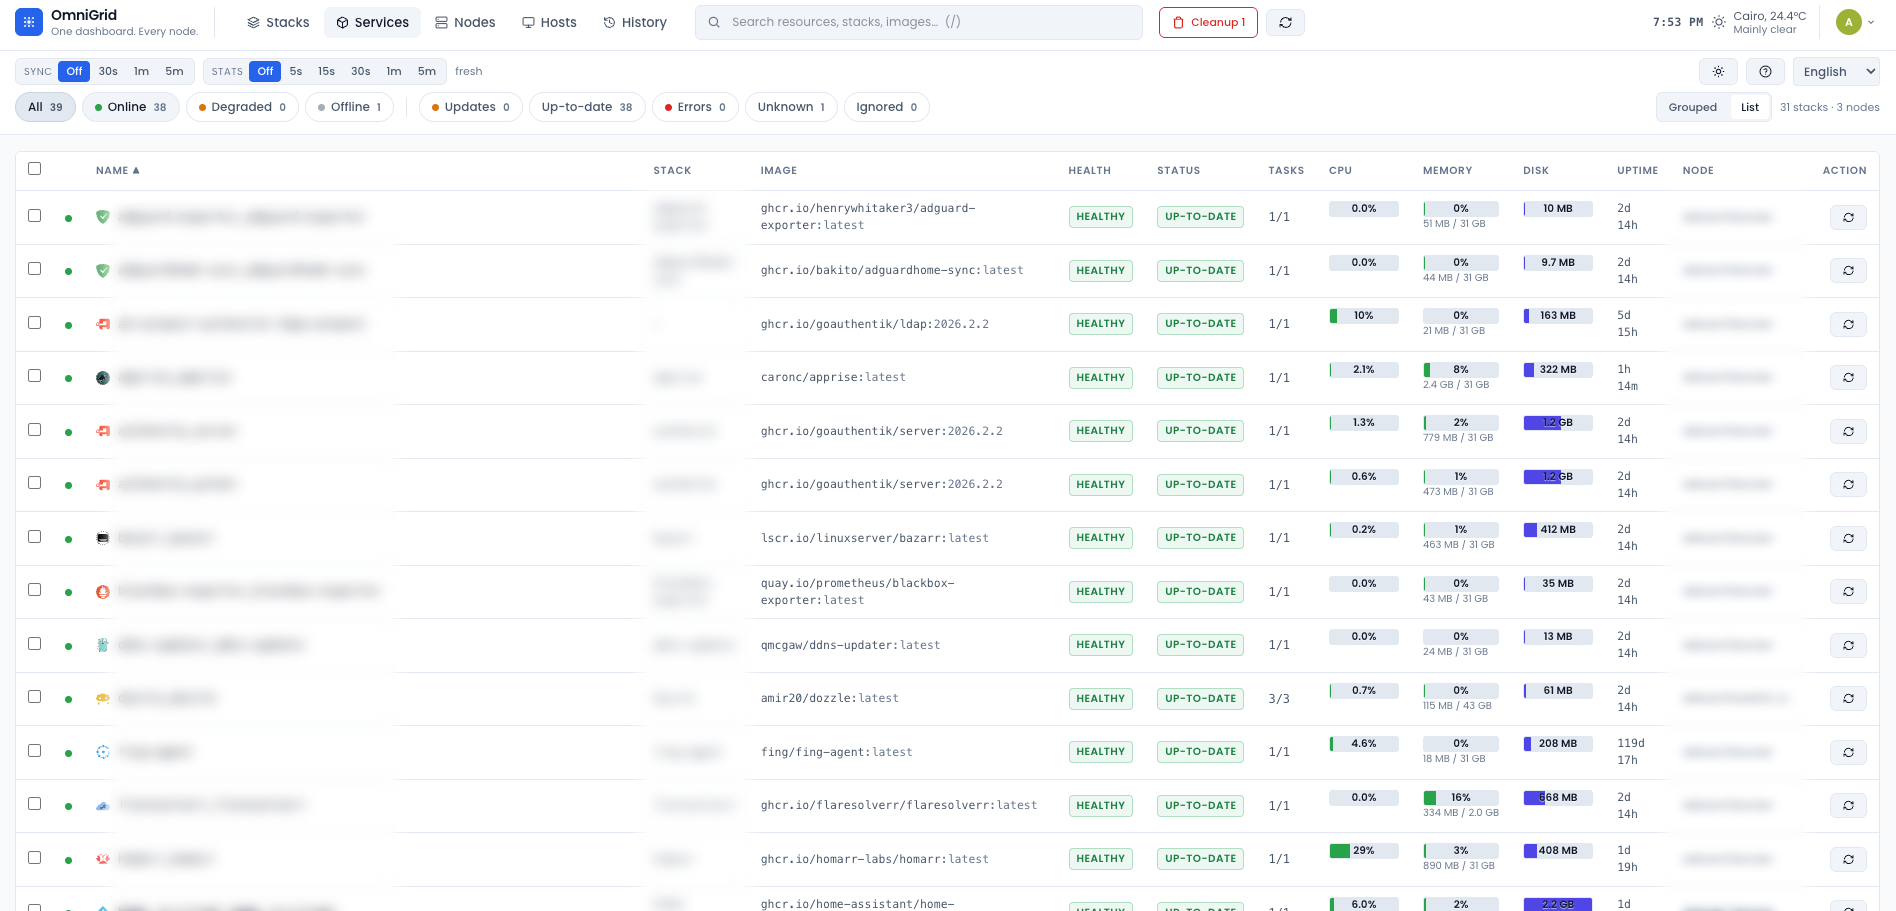
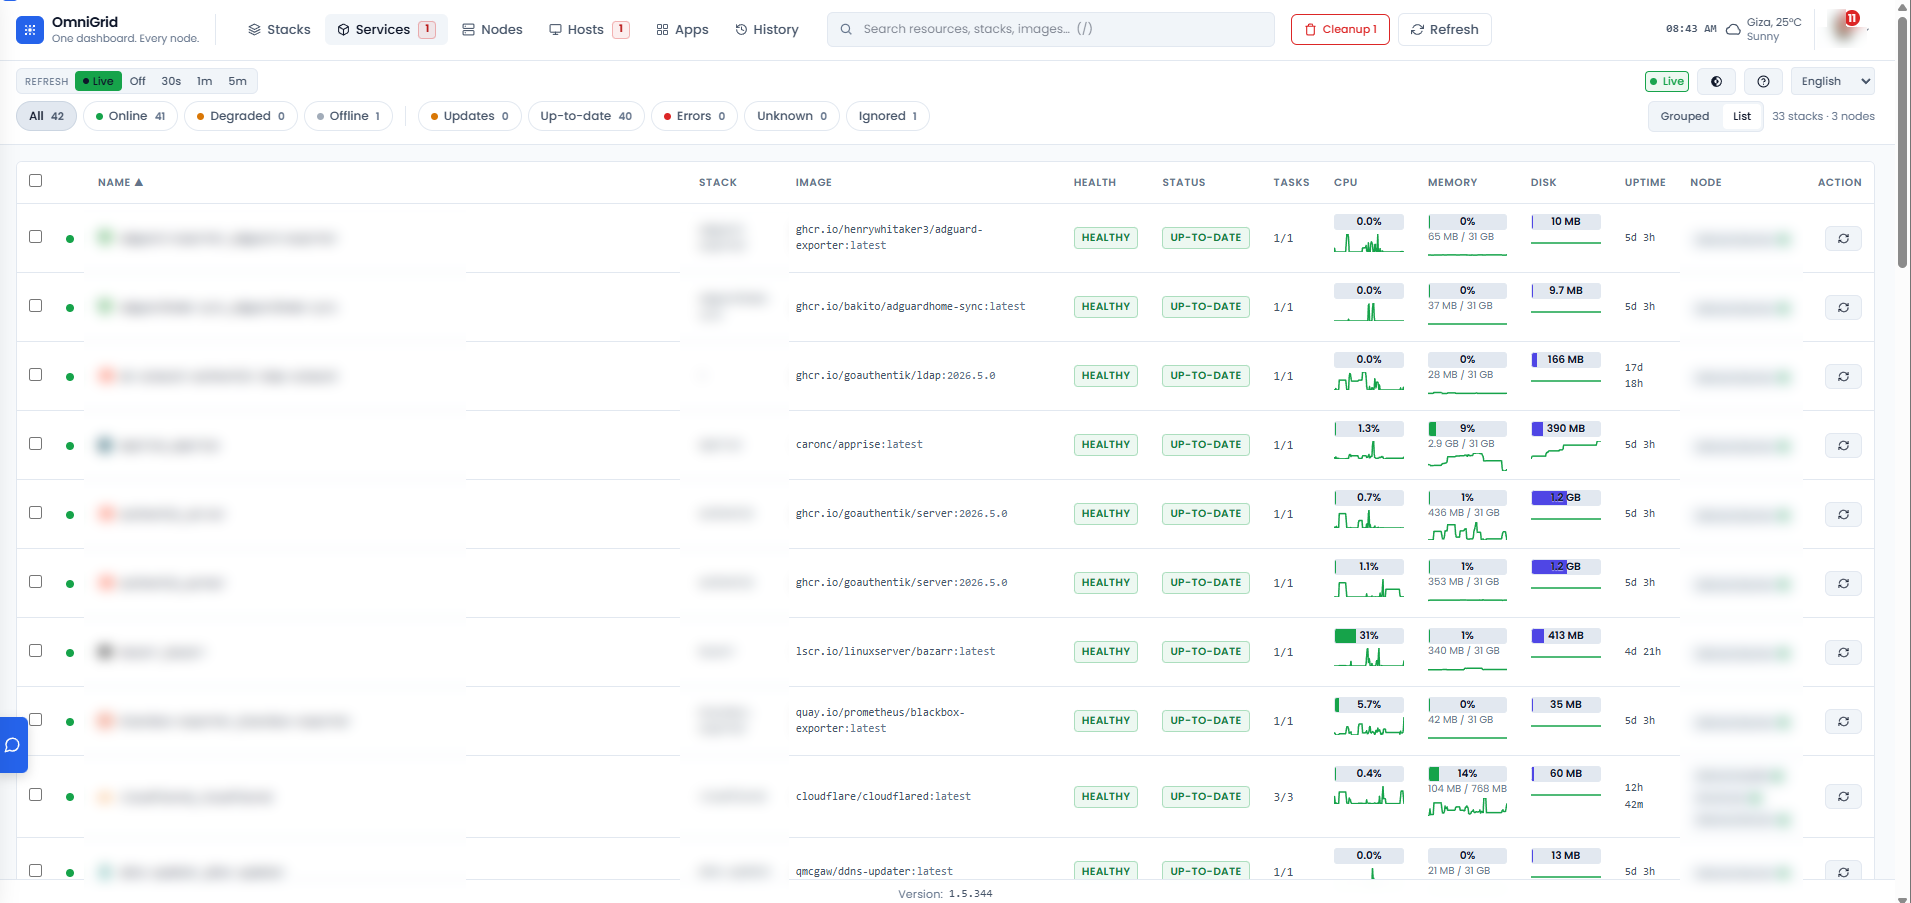
Release 1.6.0

diff --git a/README.md b/README.md
@@ -22,7 +22,7 @@ Built as a friendlier replacement for Diun Dash plus the tab-jumping between Por
      for the full set. The hero shot is the Nodes view (Stacks grouped
      by host node + live HOST CPU/MEM/DISK bars). The bare <img>
      renders without HTML5-deprecated `align` centering. -->
-<img src="docs/screenshots/nodes-view.png" alt="OmniGrid Nodes view — stacks grouped by host with live CPU / Memory / Disk bars" width="960" />
+<img src="docs/screenshots/nodes-view-light.png" alt="OmniGrid Nodes view — stacks grouped by host with live CPU / Memory / Disk bars" width="960" />
 
 ## Features
 
@@ -56,8 +56,8 @@ Built as a friendlier replacement for Diun Dash plus the tab-jumping between Por
 
 ### Apps & integrations
 
-- **Apps view + service catalog** — admin-pinned services on each curated host, paired with a built-in catalog of ~80 templates (AdGuard Home, Plex, Sonarr, Authentik, …). A discovery wizard matches a host's open-port set against catalog templates and proposes pins; per-instance Probe-now, Logs (Portainer-routed for containerised apps), and Restart / Update (when linked to a Portainer container or stack). Aggregate `/api/apps` + flat `/api/apps/instances` + portable catalog JSON export / import.
-- **Per-app integrations + skills** — apps with a dedicated module light up an expanded card (live data) plus a set of **skills** exposed three ways at once: an app-drawer button, an AI palette/sidebar action, and a Telegram action the model can invoke from natural language. Apps with modules today: **Plex** (library + now-playing + recently-added + search + scan, with a seamless "Sign in to Plex" OAuth PIN flow — `POST /api/apps/plex/auth/start` + `GET /api/apps/plex/auth/poll`), **Radarr / Sonarr / Lidarr / Readarr / Bazarr / Prowlarr / Seerr** (the *arr + request stack), **Kavita**, **AdGuard Home** + **Pi-hole** (fleet apps — one aggregated card + fleet-wide enable / disable-for-N / refresh across every instance), **AdGuard Home Sync**, **ddns-updater**, **APC** (UPS via SNMP), and **Speedtest Tracker**. Notable rosters: Prowlarr (status / indexers / app-sync / search / find-available / add-indexer / add-indexers-in-bulk / fix-flaresolverr-tags), Seerr (status / list-requests /
+- **Apps view + service catalog** — admin-pinned services on each curated host, paired with a built-in catalog of 70+ templates (AdGuard Home, Plex, Sonarr, Authentik, …). A discovery wizard matches a host's open-port set against catalog templates and proposes pins; per-instance Probe-now, Logs (Portainer-routed for containerised apps), and Restart / Update (when linked to a Portainer container or stack). Aggregate `/api/apps` + flat `/api/apps/instances` + portable catalog JSON export / import.
+- **Per-app integrations + skills** — apps with a dedicated module light up an expanded card (live data) plus a set of **skills** exposed three ways at once: an app-drawer button, an AI palette/sidebar action, and a Telegram action the model can invoke from natural language. Apps with modules today (23, canonical list is `logic/apps/registry.py`): **Plex / Jellyfin / Emby** (media servers — now-playing + recently-added + search + scan; Plex adds a seamless "Sign in to Plex" OAuth PIN flow via `POST /api/apps/plex/auth/start` + `GET /api/apps/plex/auth/poll`), **Tautulli** (Plex activity / history), **Radarr / Sonarr / Lidarr / Readarr / Bazarr / Prowlarr / Seerr** (the *arr + request stack), **qBittorrent**, **Tdarr** (transcode automation), **Tracearr** (stream-sharing detection), **Kavita** (comics / e-books), **Forgejo** (self-hosted Git), **AdGuard Home** + **Pi-hole** (fleet apps — one aggregated card + fleet-wide enable / disable-for-N / refresh across every instance), **AdGuard Home Sync**, **ddns-updater**, **Apprise** (the notification gateway OmniGrid itself uses), **APC** (UPS via SNMP), and **Speedtest Tracker**. Notable rosters: Prowlarr (status / indexers / app-sync / search / find-available / add-indexer / add-indexers-in-bulk / fix-flaresolverr-tags), Seerr (status / list-requests /
   request-movie / suggest-movie / set-filter / show-filters), Kavita (status / libraries / search / scan). Per-instance credentials follow the keep-current-if-blank contract; destructive skills gate on confirm (and on `telegram_allow_destructive` over Telegram). Each skill is delivered via `POST /api/services/{host}/{idx}/skill/{id}`; per-app card data via `GET /api/services/{host}/{idx}/app-data`; credential tests via `POST /api/services/{host}/{idx}/test-credential`.
 - **Custom dashboards (named, shareable "views")** — a Homarr-style board where you drag app cards / widgets / bookmarks into your own collapsible sections, with multiple named dashboards you can switch between. Each dashboard has a **visibility** (private / public) and, when public, an **edit permission** (read-only or editable-by-anyone-except-read-only-users); only the owner can delete it or change its sharing. Dashboards live server-side (`app_views` table) behind any-signed-in-user routes — `GET/POST /api/apps/views` + `PUT/DELETE /api/apps/views/{id}`.
 
@@ -153,7 +153,7 @@ docker pull ghcr.io/maraouf/omnigrid:1.4             # newest patch on the 1.4 l
 docker pull ghcr.io/maraouf/omnigrid:1.4.0           # exact, immutable
 ```
 
-Tag layout: `latest` floats to the newest minor we've shipped; `<MAJOR>.<MINOR>` floats to the newest minor on that major line; `<MAJOR>.<MINOR>.0` is the immutable cut-day MINOR tag (use this for rollbacks). Only `v<MAJOR>.<MINOR>.0` cut-day tags are published — daily auto-PATCH builds (`.1`, `.2`, …) stay in the maintainer-private registry and on the Swarm manager itself; cutting a MINOR is what publishes a new public tag.
+Tag layout: `latest` floats to the newest minor we've shipped; `<MAJOR>.<MINOR>` floats to the newest patch on that minor line (currently always equal to `<MAJOR>.<MINOR>.0`, since only cut-day MINOR builds are published); `<MAJOR>.<MINOR>.0` is the immutable cut-day MINOR tag (use this for rollbacks). Only `v<MAJOR>.<MINOR>.0` cut-day tags are published — daily auto-PATCH builds (`.1`, `.2`, …) stay in the maintainer-private registry and on the Swarm manager itself; cutting a MINOR is what publishes a new public tag.
 
 For a Swarm `docker-compose.yml`, set `OMNIGRID_IMAGE=ghcr.io/maraouf/omnigrid:latest` (or pin a specific tag) before `docker stack deploy` and the compose substitution picks it up. See the [GHCR section in the deploy runbook](docs/guidelines/deploy.md#pre-built-images-on-ghcr) for `--with-registry-auth` details and the publish-trigger contract.
 
@@ -351,7 +351,8 @@ GET / POST / PATCH / DELETE  /api/schedules[/{id}]
 POST                          /api/schedules/{id}/run     fire immediately → {op_id}
 GET                           /api/schedules/queue?limit=50
 GET / POST / DELETE          /api/backups[/{name}]   create / list / remove
-POST                          /api/backups/{name}/restore
+POST                          /api/backups/{name}/restore   restore from an on-disk snapshot
+POST                          /api/backups/restore    upload a snapshot zip and restore from it (multipart, 200 MB cap)
 GET                          /api/hosts/{id}/ssh/status
 POST                          /api/hosts/{id}/ssh/test
 POST                          /api/hosts/{id}/ssh/run    body: {command, dry_run}
@@ -579,7 +580,8 @@ The full gallery lives under `docs/screenshots/` — a quick tour:
 | ![Stacks](docs/screenshots/stacks-view-light.png)             | **Stacks view** — grouped table, expand-per-stack, the default landing surface.                 |
 | ![Services](docs/screenshots/services-view-light.png)         | **Services view** — flat sortable list of every Swarm service.                                  |
 | ![Service detail](docs/screenshots/service-detail-drawer.png) | **Service detail drawer** — image / digest / actions (Restart / Recreate / Ignore).             |
-| ![Nodes](docs/screenshots/nodes-view.png)                     | **Nodes view** — stacks grouped by Swarm node with live HOST CPU / MEM / DISK / UPTIME bars.    |
+| ![Nodes](docs/screenshots/nodes-view-light.png)                     | **Nodes view** — stacks grouped by Swarm node with live HOST CPU / MEM / DISK / UPTIME bars.    |
+| ![Apps](docs/screenshots/apps-view-light.png)                 | **Apps view** — admin-pinned services per host with the catalog, per-instance probes + expanded cards. |
 | ![History](docs/screenshots/history-audit-log.png)            | **History (audit log)** — every operation persisted with filterable when / op / target columns. |
 
 ### Hosts

diff --git a/docs/guidelines/api.md b/docs/guidelines/api.md
@@ -466,6 +466,15 @@ curl -sS -H "Authorization: Bearer $TOKEN" \
 curl -sS -H "Authorization: Bearer $TOKEN" \
   https://omnigrid.example.com/api/backups/2026-04-26-19-00.zip \
   -o snapshot.zip
+
+# Restore from an existing on-disk snapshot
+curl -sS -H "Authorization: Bearer $TOKEN" -X POST \
+  https://omnigrid.example.com/api/backups/2026-04-26-19-00.zip/restore | jq
+
+# Upload an off-host snapshot zip and restore from it (multipart; 200 MB cap)
+curl -sS -H "Authorization: Bearer $TOKEN" -X POST \
+  -F "file=@snapshot.zip" \
+  https://omnigrid.example.com/api/backups/restore | jq
 ```
 
 ### SSH command runner (admin-only, audited)
@@ -898,7 +907,7 @@ Current per-app roster (23 modules; the canonical list is
 | Tracearr                       | `tracearr`                                    | public-API bearer token       | status / streams / servers / violations / terminate                                                |
 | Kavita                         | `kavita`                                       | JWT (exchanged from api_key)  | status / libraries / search / scan                                                                 |
 | Forgejo                        | `forgejo`                                       | api_key (Forgejo token)       | status / repos / PRs / issues / search / starred / mark-read                                       |
-| Tdarr                          | `tdarr`                                        | api_key                       | status / bloated / requeue-bloated / requeue-failed                                                |
+| Tdarr                          | `tdarr`                                        | none (optional `x-api-key`)   | status / bloated / requeue-bloated / requeue-failed                                                |
 | AdGuard Home                   | `adguard-home` / `adguardhome` / `adguard`    | HTTP Basic                    | fleet: status / enable / disable (+ timed) / refresh / re-enable                                   |
 | Pi-hole                        | `pihole` / `pi-hole` / `pihole-v6`            | password-only (SID auth)      | fleet: status / enable / disable (+ timed) / refresh / re-enable                                   |
 | AdGuard Home Sync              | `adguardhome-sync` (+ aliases)                | HTTP Basic (optional)         | status / sync-now / logs / clear-logs                                                              |

diff --git a/CHANGELOG.md b/CHANGELOG.md
@@ -32,10 +32,11 @@ Sixth MINOR cut on top of `1.5.0` — rolls up **326 closed issues** under the 1
 
 ### Highlights
 
-- Major app-integration expansion — new per-app integrations wired end-to-end for Plex, Jellyfin, Emby, Tautulli, Tdarr, Tracearr, Kavita, Seerr (Overseerr / Jellyseerr), AdGuard Home Sync, ddns-updater, Apprise and Forgejo, each following the per-app encapsulation pattern with editor + extras partials, catalog templates, icons and AI skills.
+- Major app-integration expansion — new per-app integrations wired end-to-end for Plex, Jellyfin, Emby, Tautulli, Tdarr, Tracearr, Kavita, Seerr (Overseerr / Jellyseerr), AdGuard Home Sync, ddns-updater, Apprise and Forgejo, each following the per-app encapsulation pattern with editor + extras partials, catalog templates, icons and AI skills — bringing the per-app integration roster to 23 modules.
 - *arr stack & transcoding — Sonarr / Radarr / Lidarr / Readarr / Prowlarr / Bazarr / qBittorrent extras, Prowlarr add-indexer from AI / Telegram, and a full Tdarr workflow (check-bloated, requeue-bloated, requeue-failed) with background scans, auto-poll, measured ETAs and rich per-file result UIs.
 - Apps page & custom dashboard — "By app" cards redesigned (logo left, content right), multiple named custom-dashboard views with per-view private/public visibility + edit permissions, per-app data-cache TTL configurable in the app, and per-app action (skill) buttons gated on the per-instance "show extras" toggle.
-- Telegram bot — expanded command help + arg-skill command handling, AI free-text grounded in real fleet state, per-pending-skill polling so long background jobs (e.g. Tdarr requeue) report completion automatically, and destructive-action confirm gating that honours each surface's policy.
+- Credential-safe media art — a new per-app authenticated image proxy (`/api/services/{host}/{idx}/image-proxy`) fetches posters and avatars through each app's own credential so it never reaches the browser DOM, with an SSRF guard and a 10 MB / 1-day cache (Plex / Tautulli / Bazarr / Seerr / Forgejo art).
+- Telegram bot — a new `/skills` roster plus dynamic per-app `/<skill_id>` commands (e.g. `/run_speedtest`, `/adguard_status`), expanded command help + arg-skill handling, AI free-text grounded in real fleet state, per-pending-skill polling so long background jobs (e.g. Tdarr requeue) report completion automatically, and destructive-action confirm gating that honours each surface's policy.
 - Stats dashboard — slow-query investigation plus event-loop-blocking fixes, chart memoization, Samples KPIs + i18n, and a performance pass that chunked / offloaded the retention prunes.
 - Prayer Times & Weather — prayer reminders (a notification N minutes before each prayer, per-user opt-in with per-user medium selection across in-app / Telegram / Apprise), Prayer-Times admin fixes, and weather-sampler additions.
 - AI assistant — answers per-host telemetry questions directly and auto-resolves a single matching host; host-status accuracy fix so it no longer mislabels reachable "problem" hosts as Down.
@@ -43,7 +44,7 @@ Sixth MINOR cut on top of `1.5.0` — rolls up **326 closed issues** under the 1
 - Stability & performance — the tracemalloc default-ON crash-loop root-caused and fixed; SPA perf work (xterm.js lazy-load, `x-show` → `x-if` unmounting of costly subtrees, sprite-preload + requestAnimationFrame violation cleanups); per-app first-load paint fixes.
 - Hosts & discovery — port-scan default coverage extended to common TCP + UDP service ports, an Asset-Inventory collapsible JSON-tree viewer, Discovery-wizard improvements, scan-only port surfacing, and Apps-instance grouping (by host / service / none).
 - Security — CodeQL SSRF + path-injection findings resolved, plus UTF-8 encoding hardening on file reads.
-- Provider chips, icons & status pills + cross-app polish — unified Test-connection component, reload-button consistency, app-extras presentation unified across all apps, and a top-bar recent-tabs privacy fix (a user only ever sees their own tabs).
+- Provider chips, icons & status pills + cross-app polish — unified Test-connection component, reload-button consistency, app-extras presentation unified across all apps, Public-IP widget country-flag display (new `flag-icons` dep), and a top-bar recent-tabs privacy fix (a user only ever sees their own tabs).
 
 ### Telegram bot
 

diff --git a/docs/guidelines/telegram.md b/docs/guidelines/telegram.md
@@ -340,8 +340,11 @@ or send call without restart.
 
 | Tunable                                     | Default | Range  | Where                    |
 | ------------------------------------------- | ------- | ------ | ------------------------ |
-| `tuning_telegram_long_poll_timeout_seconds` | 25      | 1..50  | Notifications → Telegram |
-| `tuning_telegram_http_timeout_seconds`      | 35      | 5..120 | Notifications → Telegram |
+| `tuning_telegram_long_poll_timeout_seconds`   | 25      | 1..50   | Notifications → Telegram |
+| `tuning_telegram_http_timeout_seconds`        | 35      | 5..120  | Notifications → Telegram |
+| `tuning_telegram_destructive_cooldown_seconds`| 30      | 1..600  | Notifications → Telegram — cool-down between typed-confirm destructive-command prompts per chat. |
+| `tuning_telegram_ai_calls_per_minute`         | 6       | 1..120  | Notifications → Telegram — per-chat rate cap on free-text AI replies. |
+| `tuning_telegram_bulk_update_concurrency`     | 4       | 1..16   | Notifications → Telegram — fan-out concurrency for `/update all`. |
 
 Plain settings (managed via the Telegram tab UI):
 

diff --git a/docs/releases/_v160_release_notes.md b/docs/releases/_v160_release_notes.md
@@ -4,10 +4,11 @@ Sixth MINOR cut on top of `1.5.0` — rolls up **326 closed issues** under the 1
 
 ### Highlights
 
-- Major app-integration expansion — new per-app integrations wired end-to-end for Plex, Jellyfin, Emby, Tautulli, Tdarr, Tracearr, Kavita, Seerr (Overseerr / Jellyseerr), AdGuard Home Sync, ddns-updater, Apprise and Forgejo, each following the per-app encapsulation pattern with editor + extras partials, catalog templates, icons and AI skills.
+- Major app-integration expansion — new per-app integrations wired end-to-end for Plex, Jellyfin, Emby, Tautulli, Tdarr, Tracearr, Kavita, Seerr (Overseerr / Jellyseerr), AdGuard Home Sync, ddns-updater, Apprise and Forgejo, each following the per-app encapsulation pattern with editor + extras partials, catalog templates, icons and AI skills — bringing the per-app integration roster to 23 modules.
 - *arr stack & transcoding — Sonarr / Radarr / Lidarr / Readarr / Prowlarr / Bazarr / qBittorrent extras, Prowlarr add-indexer from AI / Telegram, and a full Tdarr workflow (check-bloated, requeue-bloated, requeue-failed) with background scans, auto-poll, measured ETAs and rich per-file result UIs.
 - Apps page & custom dashboard — "By app" cards redesigned (logo left, content right), multiple named custom-dashboard views with per-view private/public visibility + edit permissions, per-app data-cache TTL configurable in the app, and per-app action (skill) buttons gated on the per-instance "show extras" toggle.
-- Telegram bot — expanded command help + arg-skill command handling, AI free-text grounded in real fleet state, per-pending-skill polling so long background jobs (e.g. Tdarr requeue) report completion automatically, and destructive-action confirm gating that honours each surface's policy.
+- Credential-safe media art — a new per-app authenticated image proxy (`/api/services/{host}/{idx}/image-proxy`) fetches posters and avatars through each app's own credential so it never reaches the browser DOM, with an SSRF guard and a 10 MB / 1-day cache (Plex / Tautulli / Bazarr / Seerr / Forgejo art).
+- Telegram bot — a new `/skills` roster plus dynamic per-app `/<skill_id>` commands (e.g. `/run_speedtest`, `/adguard_status`), expanded command help + arg-skill handling, AI free-text grounded in real fleet state, per-pending-skill polling so long background jobs (e.g. Tdarr requeue) report completion automatically, and destructive-action confirm gating that honours each surface's policy.
 - Stats dashboard — slow-query investigation plus event-loop-blocking fixes, chart memoization, Samples KPIs + i18n, and a performance pass that chunked / offloaded the retention prunes.
 - Prayer Times & Weather — prayer reminders (a notification N minutes before each prayer, per-user opt-in with per-user medium selection across in-app / Telegram / Apprise), Prayer-Times admin fixes, and weather-sampler additions.
 - AI assistant — answers per-host telemetry questions directly and auto-resolves a single matching host; host-status accuracy fix so it no longer mislabels reachable "problem" hosts as Down.
@@ -15,7 +16,7 @@ Sixth MINOR cut on top of `1.5.0` — rolls up **326 closed issues** under the 1
 - Stability & performance — the tracemalloc default-ON crash-loop root-caused and fixed; SPA perf work (xterm.js lazy-load, `x-show` → `x-if` unmounting of costly subtrees, sprite-preload + requestAnimationFrame violation cleanups); per-app first-load paint fixes.
 - Hosts & discovery — port-scan default coverage extended to common TCP + UDP service ports, an Asset-Inventory collapsible JSON-tree viewer, Discovery-wizard improvements, scan-only port surfacing, and Apps-instance grouping (by host / service / none).
 - Security — CodeQL SSRF + path-injection findings resolved, plus UTF-8 encoding hardening on file reads.
-- Provider chips, icons & status pills + cross-app polish — unified Test-connection component, reload-button consistency, app-extras presentation unified across all apps, and a top-bar recent-tabs privacy fix (a user only ever sees their own tabs).
+- Provider chips, icons & status pills + cross-app polish — unified Test-connection component, reload-button consistency, app-extras presentation unified across all apps, Public-IP widget country-flag display (new `flag-icons` dep), and a top-bar recent-tabs privacy fix (a user only ever sees their own tabs).
 
 ### Telegram bot
 

diff --git a/docs/README.md b/docs/README.md
@@ -18,14 +18,14 @@ Step-by-step admin runbooks for each integration / subsystem.
 | [`guidelines/auth.md`](guidelines/auth.md)                   | Local accounts + sessions + API tokens — bootstrap the first admin, manage users, rotate `SESSION_SECRET`.                                                                                                                                                                                                                                                     |
 | [`guidelines/passkeys.md`](guidelines/passkeys.md)           | WebAuthn / FIDO2 passkeys as a 2FA method — enrolment, login, recovery, troubleshooting.                                                                                                                                                                                                                                                                       |
 | [`guidelines/authentik.md`](guidelines/authentik.md)         | Authentik OIDC SSO setup. Settings live in the DB; this walks the IdP-side configuration end to end.                                                                                                                                                                                                                                                           |
-| [`guidelines/deploy.md`](guidelines/deploy.md)               | Production deploy via the CI pipeline (image-build + registry push + force-update). Runner setup, deploy-key rotation, version-bump model, manual rollback, reverse-proxy timeouts, troubleshooting. Also: the public **GHCR pre-built images** (`ghcr.io/maraouf/omnigrid:<tag>`) — tag layout, publish trigger (MINOR + first PATCH), pull / pin / rollback. |
+| [`guidelines/deploy.md`](guidelines/deploy.md)               | Production deploy via the CI pipeline (image-build + registry push + force-update). Runner setup, deploy-key rotation, version-bump model, manual rollback, reverse-proxy timeouts, troubleshooting. Also: the public **GHCR pre-built images** (`ghcr.io/maraouf/omnigrid:<tag>`) — tag layout, publish trigger (MINOR-cut tags only), pull / pin / rollback. |
 | [`guidelines/env_example.md`](guidelines/env_example.md)     | Every supported `.env` key with defaults, scope, and migration notes.                                                                                                                                                                                                                                                                                          |
 | [`guidelines/metrics_guide.md`](guidelines/metrics_guide.md) | Prometheus `/metrics` schema + Grafana dashboard import notes.                                                                                                                                                                                                                                                                                                 |
 | [`guidelines/scheduler.md`](guidelines/scheduler.md)         | Scheduler kinds (`gather_refresh` / `prune_node` / `prune_all_nodes` / `backup` / `config_backup` / `prune_config_backups` / `asset_inventory_refresh` / `prune_logs` / `prune_notifications` / `swarm_agent_health` / `port_scan_refresh`), endpoints, safety properties.                                                                                     |
 | [`guidelines/beszel_agent.md`](guidelines/beszel_agent.md)   | Beszel agent install + the `EXTRA_FILESYSTEMS` / `NICS` env knobs OmniGrid relies on.                                                                                                                                                                                                                                                                          |
 | [`guidelines/api.md`](guidelines/api.md)                     | **OmniGrid HTTP API** — auth modes, common workflows, error shapes, stability contract.                                                                                                                                                                                                                                                                        |
 | [`guidelines/api_services.md`](guidelines/api_services.md)   | Asset-inventory upstream API spec — the OAuth2 service contract OmniGrid integrates against. Maintained as the external project's reference; OmniGrid is one consumer among many.                                                                                                                                                                              |
-| [`guidelines/telegram.md`](guidelines/telegram.md)           | Telegram integration — outbound notifications, inbound slash commands (`/help`, `/hosts`, `/host`, `/restart` (alias `/reboot`), `/cleanup`, `/update`, `/link`, `/whoami`, `/weather`, `/moon`, `/prayer`, `/hijri`, `/time`, `/version`, `/ip`), AI free-form chat surface, account linking, tunables, troubleshooting.                                                           |
+| [`guidelines/telegram.md`](guidelines/telegram.md)           | Telegram integration — outbound notifications, inbound slash commands (`/help`, `/start`, `/hosts`, `/host`, `/restart` (alias `/reboot`), `/cleanup`, `/update`, `/skills`, `/link`, `/unlink`, `/whoami`, `/myid`, `/weather`, `/moon`, `/prayer`, `/hijri`, `/time`, `/version`, `/ip`), AI free-form chat surface, account linking, tunables, troubleshooting.                                                           |
 | [`guidelines/npm_updates.md`](guidelines/npm_updates.md)     | Front-end dependency bump workflow — npm install, what gets committed, allowlist additions.                                                                                                                                                                                                                                                                    |
 
 ## Releases

diff --git a/docs/guidelines/deploy.md b/docs/guidelines/deploy.md
@@ -630,7 +630,7 @@ Tag layout summary:
 | Tag                                          | Floats?  | Use for                                                                |
 | -------------------------------------------- | -------- | ---------------------------------------------------------------------- |
 | `ghcr.io/maraouf/omnigrid:latest`            | ✅        | "Give me the newest stable build" — moves on every MINOR cut           |
-| `ghcr.io/maraouf/omnigrid:<MAJOR>.<MINOR>`   | ✅        | "Pin me to this major line" — moves to the newest MINOR on that major  |
+| `ghcr.io/maraouf/omnigrid:<MAJOR>.<MINOR>`   | ✅        | "Pin me to this minor line" — floats to the newest patch on it (always `.0` today, since only cut-day MINOR builds are published) |
 | `ghcr.io/maraouf/omnigrid:<MAJOR>.<MINOR>.0` | ❌        | Immutable cut-day MINOR tag — use for rollbacks, never overwritten     |
 
 ### Compose / Swarm wiring